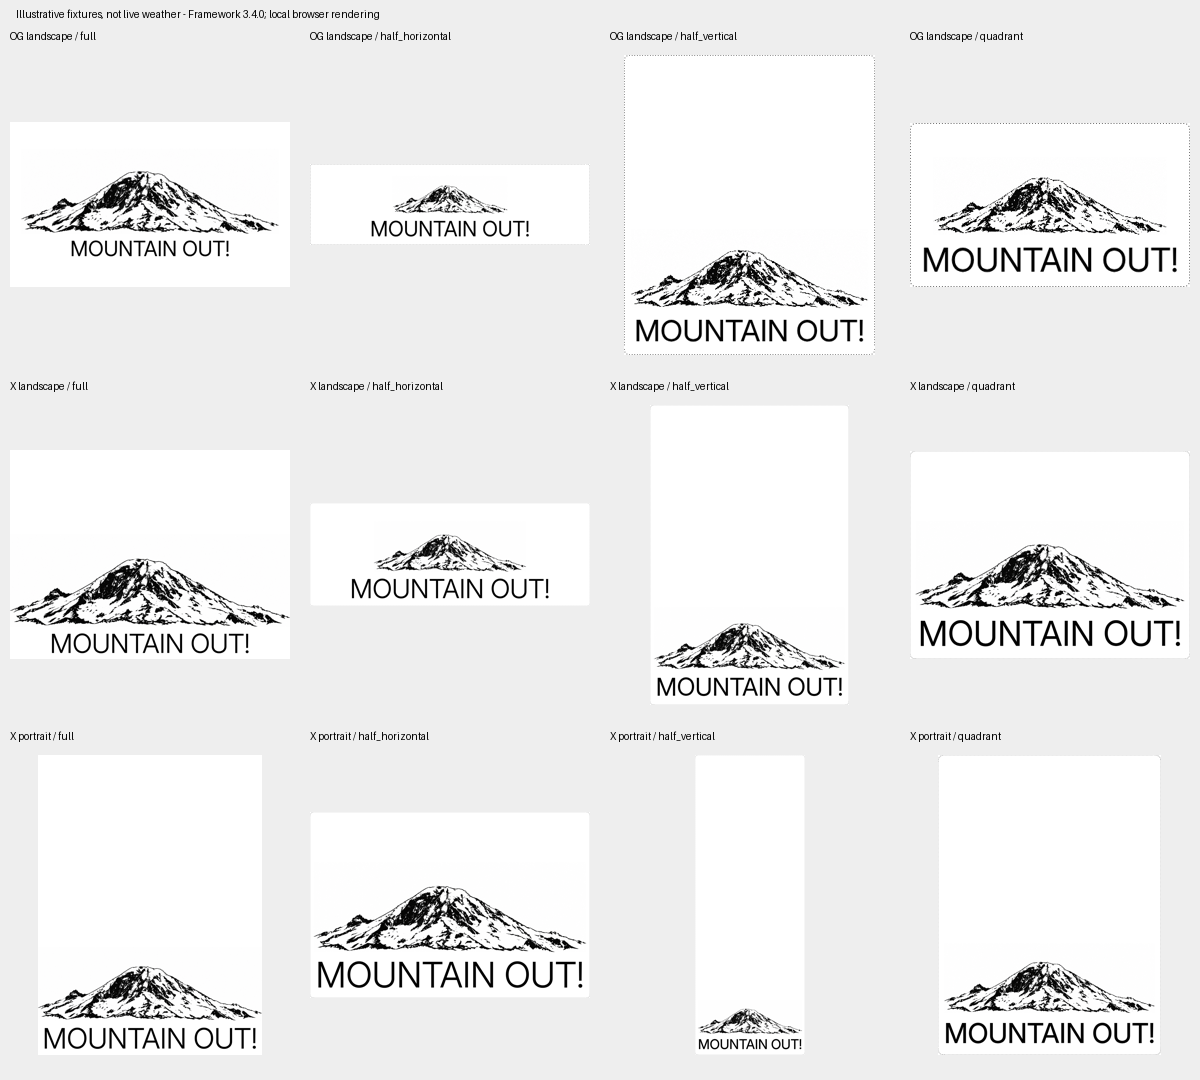
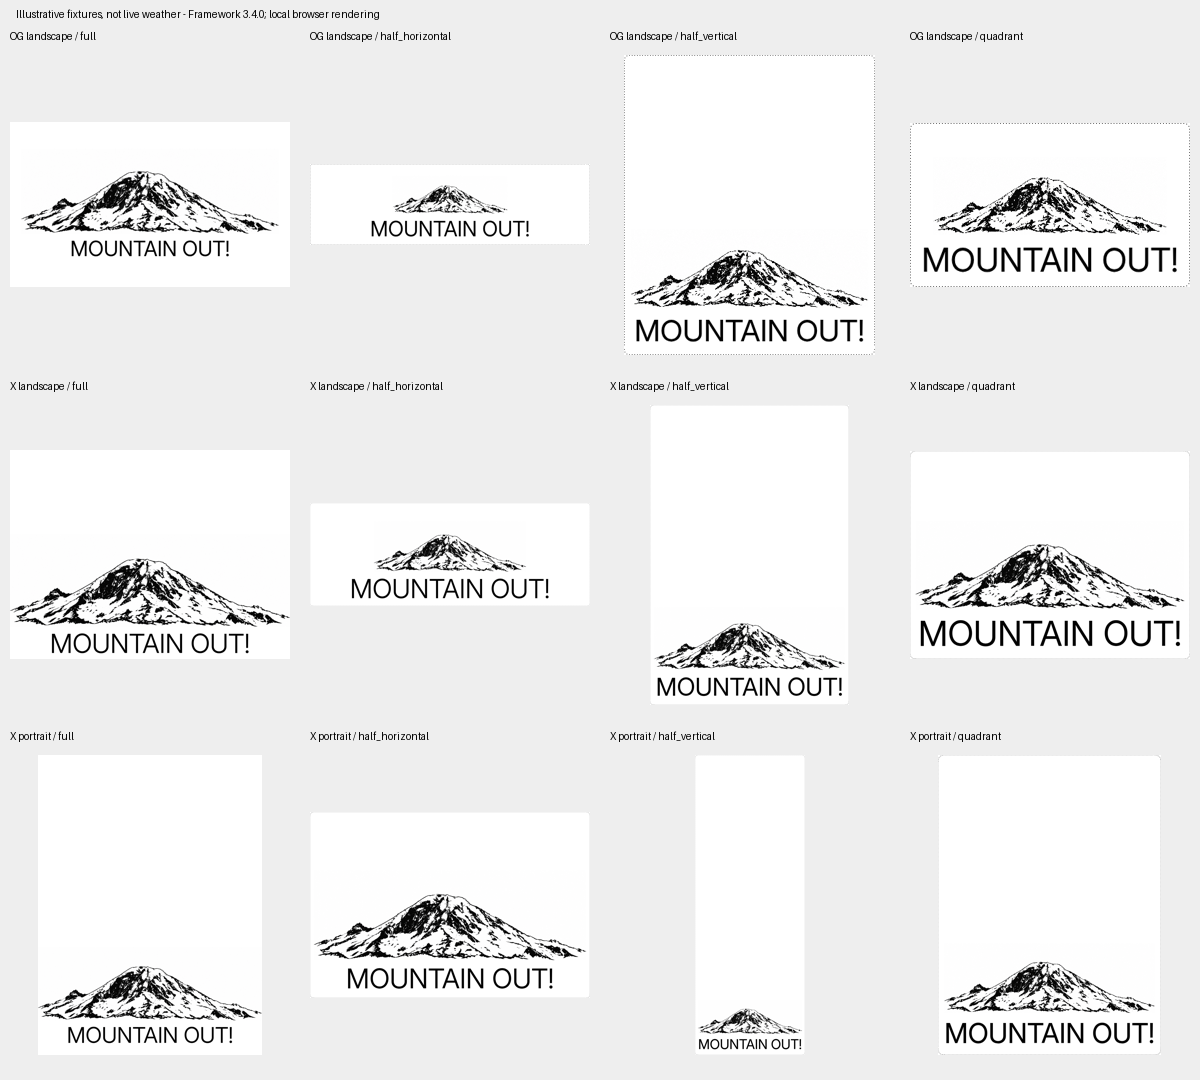
Fix portrait QR overlap and clarify polling URL exports

Changed region(s): [[0.2467, 0.825, 0.4933, 0.9167], [0.0308, 0.9472, 0.2158, 0.9778], [0.925, 0.9472, 0.9558, 0.9778]]

diff --git a/tests/test_package_plugin.py b/tests/test_package_plugin.py
@@ -3,6 +3,8 @@ import unittest
 from pathlib import Path
 from zipfile import ZipFile
 import yaml
+from liquid import Environment
+from urllib.parse import urlsplit, parse_qs
 from tools.package_plugin import build_package
 
 ORIGIN = 'https://is-the-mountain-out.5g5wqr7kzx-466.workers.dev'
@@ -45,3 +47,19 @@ class PackageTests(unittest.TestCase):
                 with self.subTest(value=value), self.assertRaises(ValueError):
                     build_package(path, value)
                 self.assertFalse(path.exists())
+
+    def test_exported_polling_url_round_trips_and_selects_hood(self):
+        root = Path(__file__).resolve().parents[1]
+        source = yaml.safe_load((root / 'plugin/src/settings.yml').read_text())
+        with tempfile.TemporaryDirectory() as directory:
+            with ZipFile(build_package(Path(directory) / 'recipe.zip')) as archive:
+                raw = archive.read('settings.yml').decode()
+        polling_line = next(line for line in raw.splitlines() if line.startswith('polling_url:'))
+        self.assertTrue(polling_line.startswith('polling_url: "'))
+        self.assertNotIn("''hood''", polling_line)
+        exported = yaml.safe_load(raw)
+        self.assertEqual(exported['polling_url'], source['polling_url'])
+        url = Environment().from_string(exported['polling_url']).render(
+            mountain='hood', rainier_viewpoint='paradise', hood_viewpoint='portland')
+        self.assertEqual(parse_qs(urlsplit(url).query), {
+            'mountain': ['hood'], 'viewpoint': ['portland'], 'feedback': ['false']})

diff --git a/tools/check_layouts.py b/tools/check_layouts.py
@@ -69,6 +69,15 @@ def main():
                                     decoded = zxingcpp.read_barcode(Image.open(io.BytesIO(qr.screenshot())))
                                     assert decoded and decoded.text == URL, (case, 'QR did not decode')
                                     anchor=page.locator('[data-feedback-qr]').bounding_box()
+                                    # View bounds alone miss text hidden behind an
+                                    # opaque QR. Check the actual text glyph range.
+                                    glyphs=page.locator('.value').evaluate("""el => {
+                                      const range=document.createRange();range.selectNodeContents(el);
+                                      const r=range.getBoundingClientRect();return {x:r.x,y:r.y,w:r.width,h:r.height};
+                                    }""")
+                                    overlap_x=min(glyphs['x']+glyphs['w'],anchor['x']+anchor['width'])-max(glyphs['x'],anchor['x'])
+                                    overlap_y=min(glyphs['y']+glyphs['h'],anchor['y']+anchor['height'])-max(glyphs['y'],anchor['y'])
+                                    assert overlap_x <= 1 or overlap_y <= 1, (case, 'Verdict hidden by QR', glyphs, anchor)
                                     assert abs(text['y'] - anchor['y']) < 1, (case, text, anchor)
                                     # Approximate one-inch square including the quiet zone:
                                     # OG ~125 ppi; X ~176 ppi, with native 1.8x scaling.

diff --git a/tools/package_plugin.py b/tools/package_plugin.py
@@ -11,6 +11,18 @@ sys.path.insert(0, str(ROOT))
 from mountain.feedback import public_origin
 
 
+class PollingURL(str):
+    """Keep Liquid's quotes literal and the URL on one line in the export."""
+
+
+class RecipeDumper(yaml.SafeDumper):
+    pass
+
+
+RecipeDumper.add_representer(PollingURL, lambda dumper, value: dumper.represent_scalar(
+    'tag:yaml.org,2002:str', str(value), style='"'))
+
+
 def build_package(output, service_url=None, enable_feedback=False):
     settings = yaml.safe_load((ROOT / 'plugin/src/settings.yml').read_text())
     templates = {file.name: file.read_text() for file in sorted((ROOT / 'plugin/src').glob('*.liquid'))}
@@ -35,7 +47,9 @@ def build_package(output, service_url=None, enable_feedback=False):
     with ZipFile(output, 'w', ZIP_DEFLATED) as archive:
         for name, markup in templates.items():
             archive.writestr(name, markup)
-        archive.writestr('settings.yml', yaml.safe_dump(settings, sort_keys=False, allow_unicode=True))
+        export_settings = {**settings, 'polling_url': PollingURL(settings['polling_url'])}
+        archive.writestr('settings.yml', yaml.dump(export_settings, Dumper=RecipeDumper,
+                                               sort_keys=False, allow_unicode=True, width=4096))
     with ZipFile(output) as archive:
         assert archive.testzip() is None
         assert set(archive.namelist()) == {'settings.yml', 'shared.liquid', 'full.liquid', 'half_horizontal.liquid', 'half_vertical.liquid', 'quadrant.liquid'}

diff --git a/docs/termy-review.md b/docs/termy-review.md
@@ -1,0 +1,72 @@
+# Follow-up on Termy review 522027
+
+## Mount Hood polling
+
+The repository source and the previous committed ZIP both decode to this valid
+Liquid condition:
+
+```liquid
+{% if mountain == 'hood' %}
+```
+
+The previous export used YAML's single-quoted scalar style. In that style,
+`''` encodes one literal quote; it is not an additional quote passed to Liquid.
+For example:
+
+```yaml
+polling_url: '{% if mountain == ''hood'' %}portland{% endif %}'
+```
+
+After YAML parsing, the value is `{% if mountain == 'hood' %}portland{% endif %}`.
+The original exported polling value exactly equals the source value. Rendering
+it with `mountain=hood`, a saved `rainier_viewpoint=paradise` and
+`hood_viewpoint=portland` produces `mountain=hood&viewpoint=portland&feedback=false`.
+Rendering with no custom fields produces Rainier/Seattle with feedback disabled.
+
+The author subsequently pasted the actual polling field from recipe 522027.
+It does contain literal `''hood''`, `''rainier''`, `''portland''`, `''seattle''`
+and `''false''`. Termy's diagnosis is correct for the installed recipe. The
+repository and YAML round trip are correct, but the serialization escapes have
+been retained in the installed field. Whether that happened during import or
+manual copying is not established.
+
+Replace the complete polling field with this single line, then save and use
+TRMNL's Parse/refresh action:
+
+```text
+https://is-the-mountain-out.5g5wqr7kzx-466.workers.dev/api/visibility?mountain={{ mountain | default: 'rainier' }}&viewpoint={% if mountain == 'hood' %}{{ hood_viewpoint | default: 'portland' }}{% else %}{{ rainier_viewpoint | default: 'seattle' }}{% endif %}&feedback={{ show_feedback_qr | default: 'false' }}
+```
+
+The packager now exports the polling value in double-quoted YAML on one line,
+matching the source style, so literal Liquid quotes remain easy to read and copy.
+A regression test checks the serialized form, YAML round trip and Hood selection
+from the exported archive.
+
+## Full-layout verdict in X portrait
+
+This finding is confirmed. With the native Framework 3.4.0 CSS, JS and fonts, the
+96px verdict extends behind the opaque QR region. The text still exists in the
+DOM and fits inside the overall view, so the old bounds/text checks passed while
+the final characters were visually hidden. Adding
+`lg:portrait:value--xlarge` reduces the base font to 74px and keeps the complete
+verdict clear of the QR on X portrait. The stronger overlap check also found a
+problem on OG portrait, where a font-size class for X alone cannot help.
+
+The padded outer container now wraps a separate native flex container. This
+lets Framework text fitting measure the true content width after reserving the
+QR gutters, rather than the entire padded width. The correction uses native
+Framework classes and its text-fitting engine; it adds no custom CSS or JavaScript.
+
+[Before](termy-review/before.png) · [Fixed](termy-review/fixed.png)
+
+These are local illustrative fixtures, not hosted TRMNL screenshots or live data.
+The browser suite now compares the actual verdict glyph range against the QR
+rectangle to catch this type of overlap across the supported device matrix.
+
+## Whitespace
+
+This observation is also confirmed, particularly in tall half-vertical layouts.
+Centering content moves the whitespace but does not reduce it. Adding a viewpoint
+name would change the deliberately minimal mountain-and-verdict design, so this
+review does not add text or claim that the layout-density feedback is resolved.
+See the [layout review sheet](publishing-layouts.png).

diff --git a/docs/publishing.md b/docs/publishing.md
@@ -111,7 +111,7 @@ has not been inferred or added during this review.
 ## Local validation
 
 Validated on 2026-10-31: deployment dry run and seven Worker/D1 tests passed;
-all 44 Python tests passed, including active-mountain polling selection,
+all 45 Python tests passed, including active-mountain polling selection,
 default fields, feedback encodings, legacy-field independence and consistent
 polling/artwork origins in the default and maintainer-override exports;
 the browser feedback flow saved an observation and verified its receipt/review;
@@ -125,6 +125,19 @@ The author confirmed the shared production origin, but a direct health request
 from this environment was denied by its network proxy with HTTP 403. This does
 not establish a Worker outage. Its hostname was added to the saved environment
 network draft; runtime verification needs those settings applied.
+
+Follow-up on Termy's review of recipe 522027: see the
+[reproduction and corrections](termy-review.md). The author confirmed that literal
+doubled quotes reached the installed polling field, so Termy's diagnosis of the
+installed recipe is correct. The previous ZIP used valid YAML escaping, but those
+escapes must not be copied literally into Liquid. The new export uses a double-quoted, single-line
+polling value to avoid confusion without changing the parsed Liquid. X portrait
+verdict overlap with the Full-layout QR was reproduced and fixed using the
+Framework's `lg:portrait:value--xlarge` class and a nested native flex container
+that lets text fitting measure the space remaining after the QR gutters.
+The nesting also fixes the OG portrait case found by the stronger checks.
+Browser checks now explicitly test
+verdict glyphs against the QR's bounds, in addition to view bounds and QR decoding.
 
 Use the existing commands from the repository root:
 

diff --git a/README.md b/README.md
@@ -106,7 +106,7 @@ python -m venv .venv
 ```
 
 The browser check uses `/usr/bin/chromium` and requires local process/socket access.
-The 44 tests cover model boundaries, mixed conditions, missing/stale/invalid data,
+The 45 tests cover model boundaries, mixed conditions, missing/stale/invalid data,
 cache expiry, error recovery, observer changes, HTTP responses, Liquid escaping,
 missing data, and responsive mountain/state/QR checks across five native device profiles, both orientations and all four views. The preview harness adapts
 TRMNL's named `template` wrapper to a standard Liquid partial and uses official
